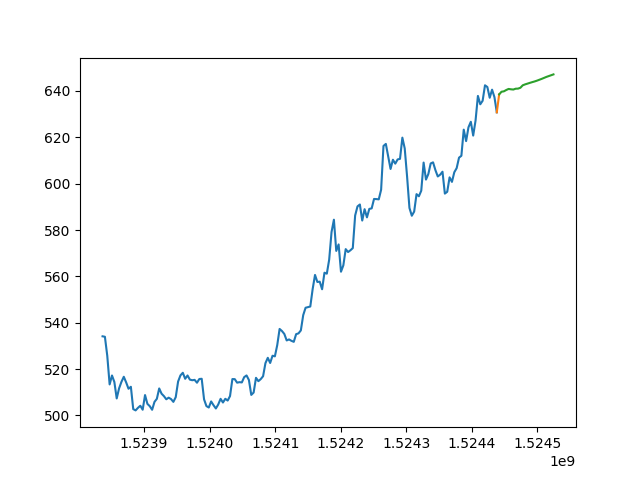
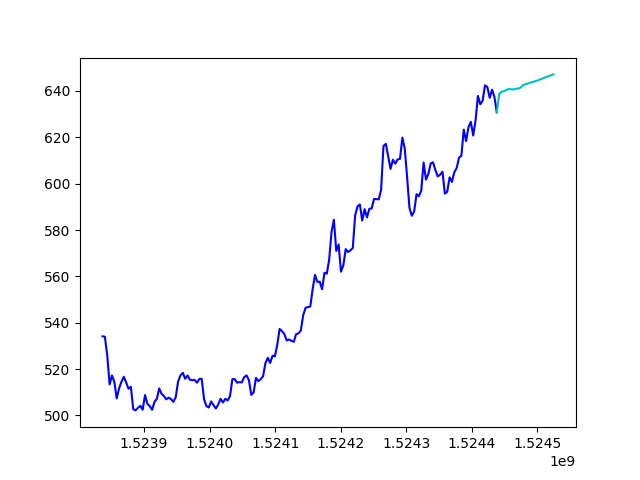
reorganized files, pushing new images

diff --git a/src/crypto_models/build_lstm_model.py b/src/crypto_models/build_lstm_model.py
@@ -15,7 +15,7 @@ from keras.layers import Dropout
 from keras.models import load_model
 
 WINDOW_LEN = 10
-MAX_TRAIN_SIZE = 16000
+MAX_TRAIN_SIZE = 8000
 NEURON_COUNT = 20
 NUM_EPOCHS = 10
 TRAINING_ATTRIBUTES = ['open', 'high', 'low', 'close', 'volumefrom', 'volumeto']
@@ -69,7 +69,7 @@ def main():
 	for i in range(len(lstm_train_input)):
             normalize_window_df(lstm_train_input[i], COLS_TO_NORMALIZE)
 	lstm_train_output = \
-	 (train_data[WINDOW_LEN:].values/(train_data[:-WINDOW_LEN].values))-1 # normalized
+	 (train_data[WINDOW_LEN:].values/(train_data[:-WINDOW_LEN].values+1))-1 # normalized
         del(train_data)
 
 	''' putting input windows into numpy arrays '''
@@ -93,7 +93,7 @@ def main():
         hist = m.fit(lstm_train_input, lstm_train_output, epochs=NUM_EPOCHS, batch_size=1, verbose=2, shuffle=True)
 
 	# save the model
-	m.save(currencyname+"_model.h5")
+	m.save("models/"+currencyname+"_model.h5")
 
 if __name__ == "__main__":
     main()

diff --git a/src/crypto_models/plot_prices.py b/src/crypto_models/plot_prices.py
@@ -59,10 +59,10 @@ def main():
 
     trans = past_df.tail(1).append(futr_df.head(1))
 
-    plt.plot(past_times, past_df['open'])
-    plt.plot([past_times[-1], futr_times[0]], trans['open'])
-    plt.plot(futr_times, futr_df['open'])
-    plt.savefig("plots/"+argcurrencyname+"_plot.png")
+    plt.plot(past_times, past_df['open'], 'b')
+    plt.plot([past_times[-1], futr_times[0]], trans['open'], 'c')
+    plt.plot(futr_times, futr_df['open'], 'c')
+    plt.savefig("../django/portfolio/static/portfolio/"+argcurrencyname+"_plot.png")
 
 if __name__ == "__main__":
     main()
